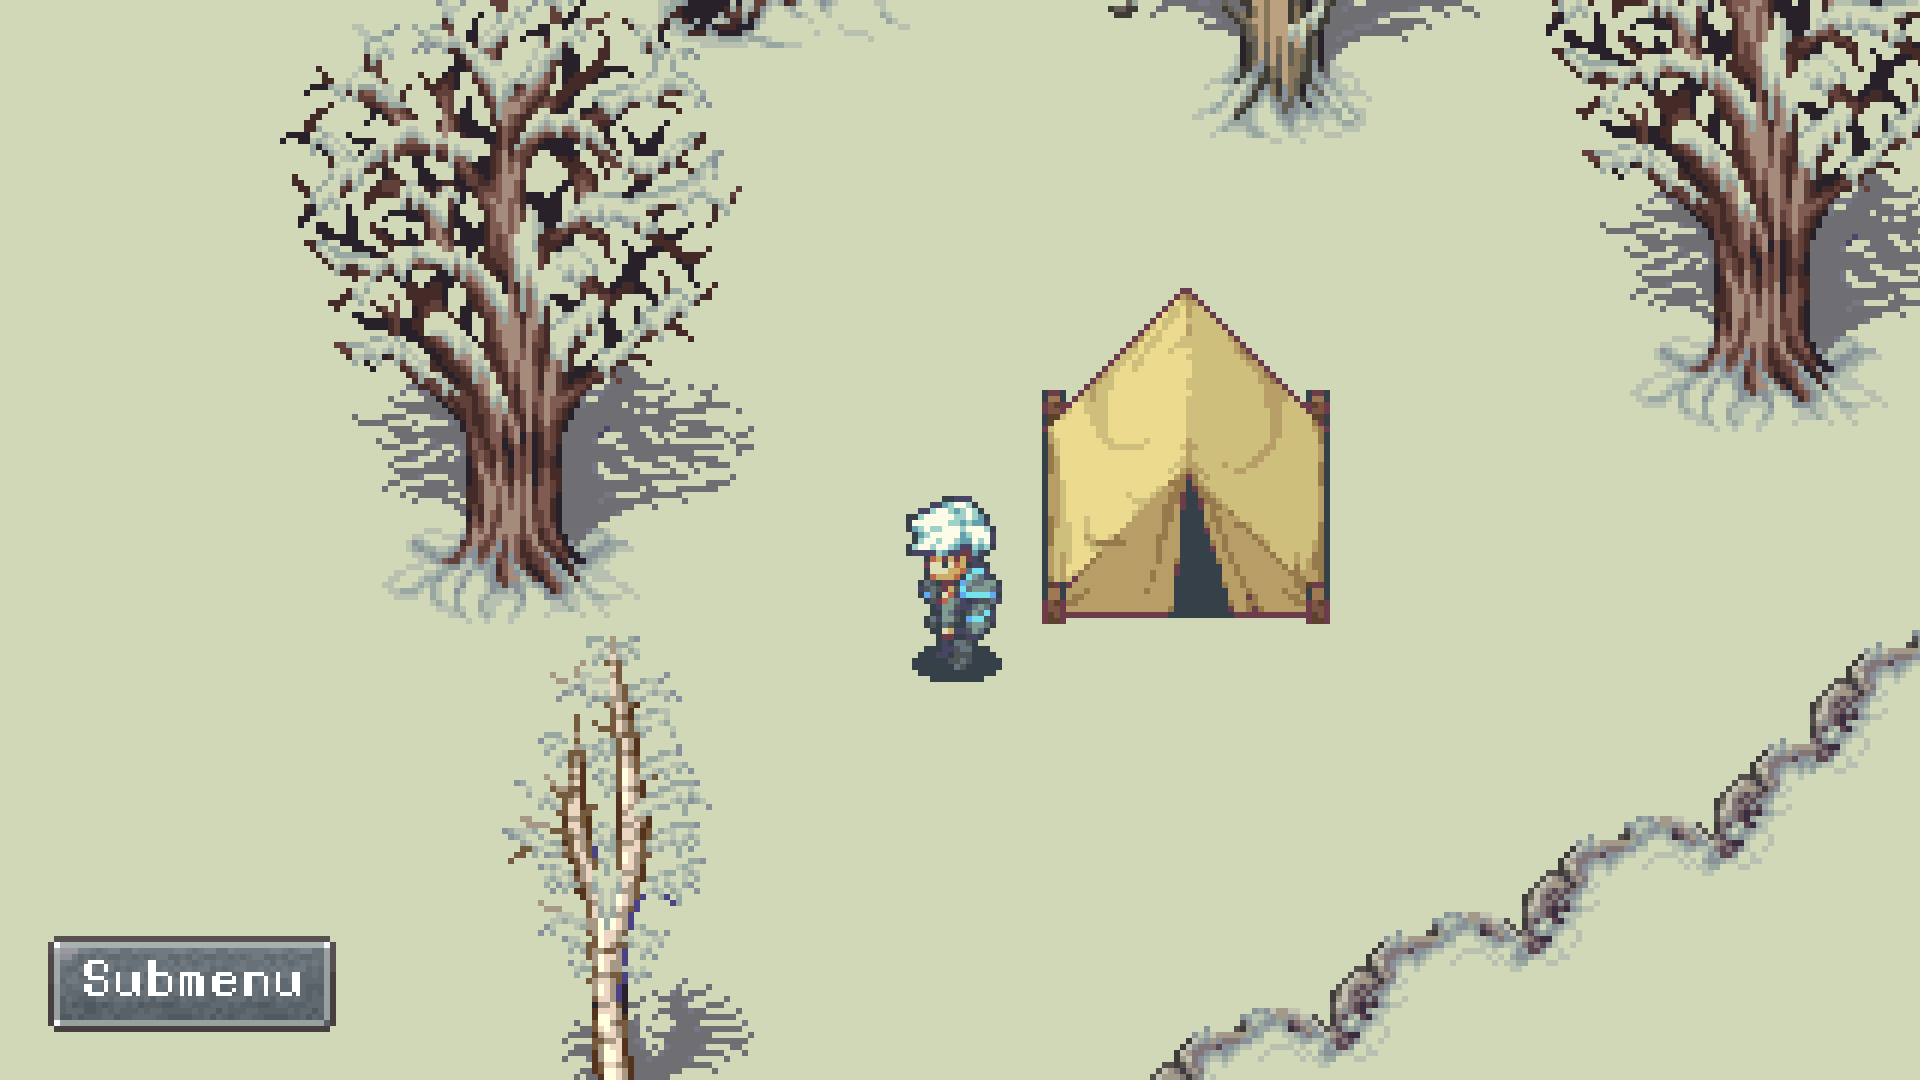
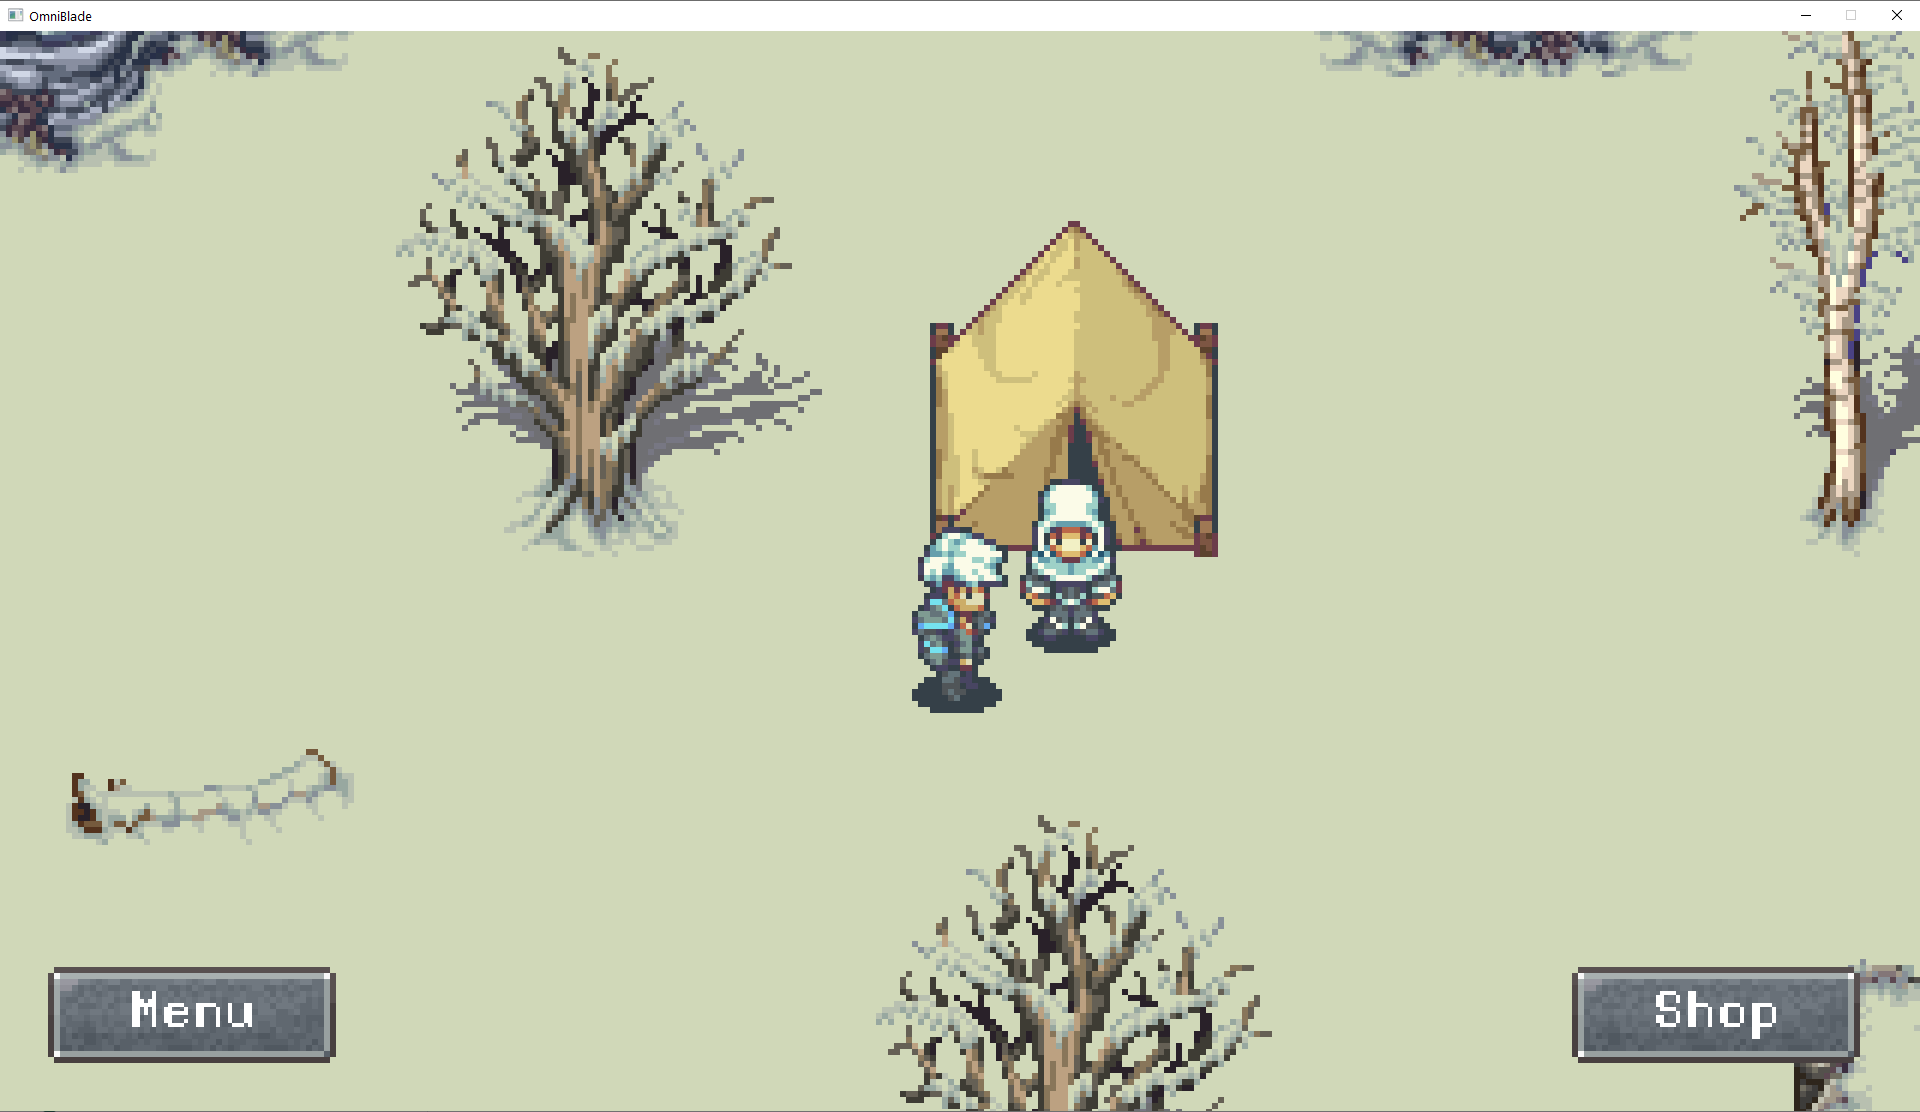
Updated readme promotional.

diff --git a/ReadMe.md b/ReadMe.md
@@ -28,8 +28,14 @@ Editing a section of a BlazeVector stage.
 ![Screenshot](Projects/OmniBlade/Promotional/OmniBladeOuterTomb.png?raw=true)
 Wandering around the encampment in OmniBlade.
 
+![Screenshot](Projects/OmniBlade/Promotional/OmniBladeChest.png?raw=true)
+Exploring a level in OmniBlade.
+
 ![Screenshot](Projects/OmniBlade/Promotional/OmniBladeBattle.png?raw=true)
 A battle with Goblins in OmniBlade.
+
+![Screenshot](Projects/OmniBlade/Promotional/OmniBladeShop.png?raw=true)
+Shopping for items in OmniBlade.
 
 ![Screenshot](Nu/Nu.Promotional/SpecialEffect.png?raw=true)
 Editing a special effect in Nu.
